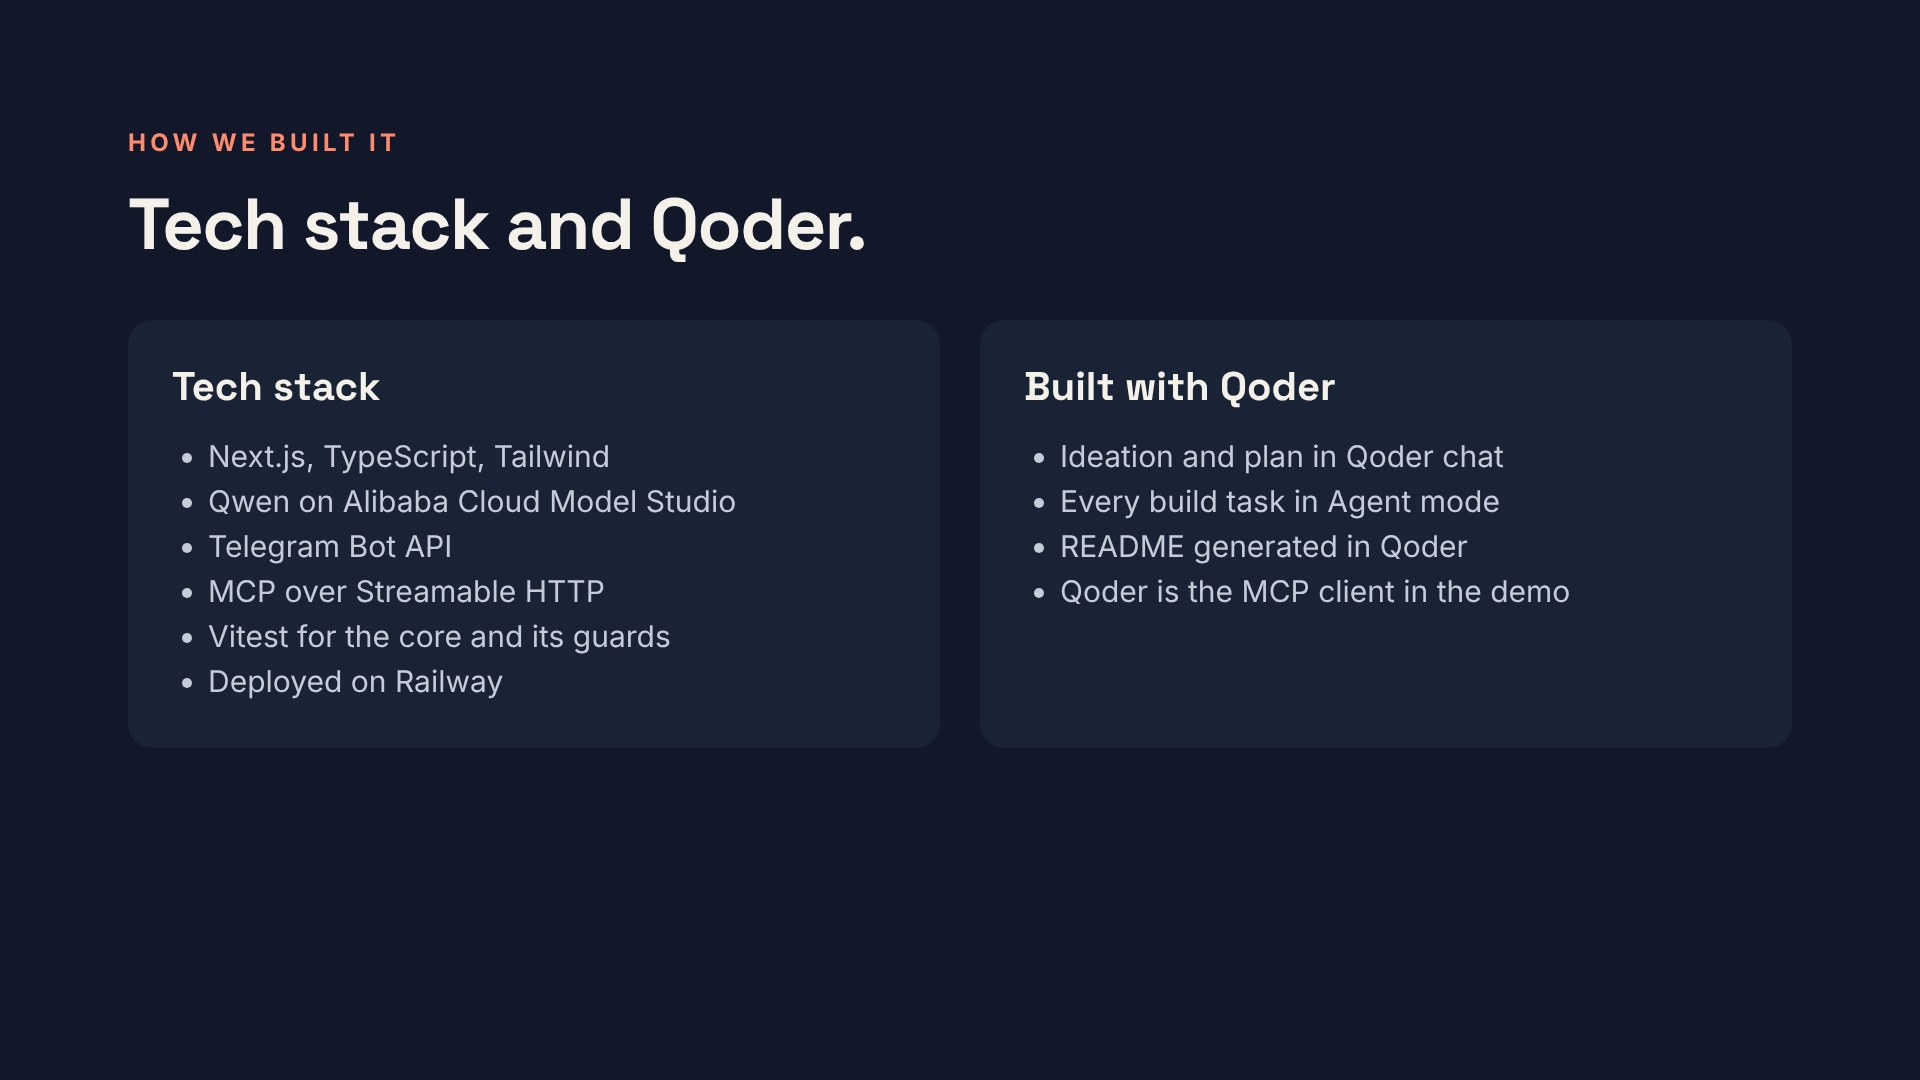
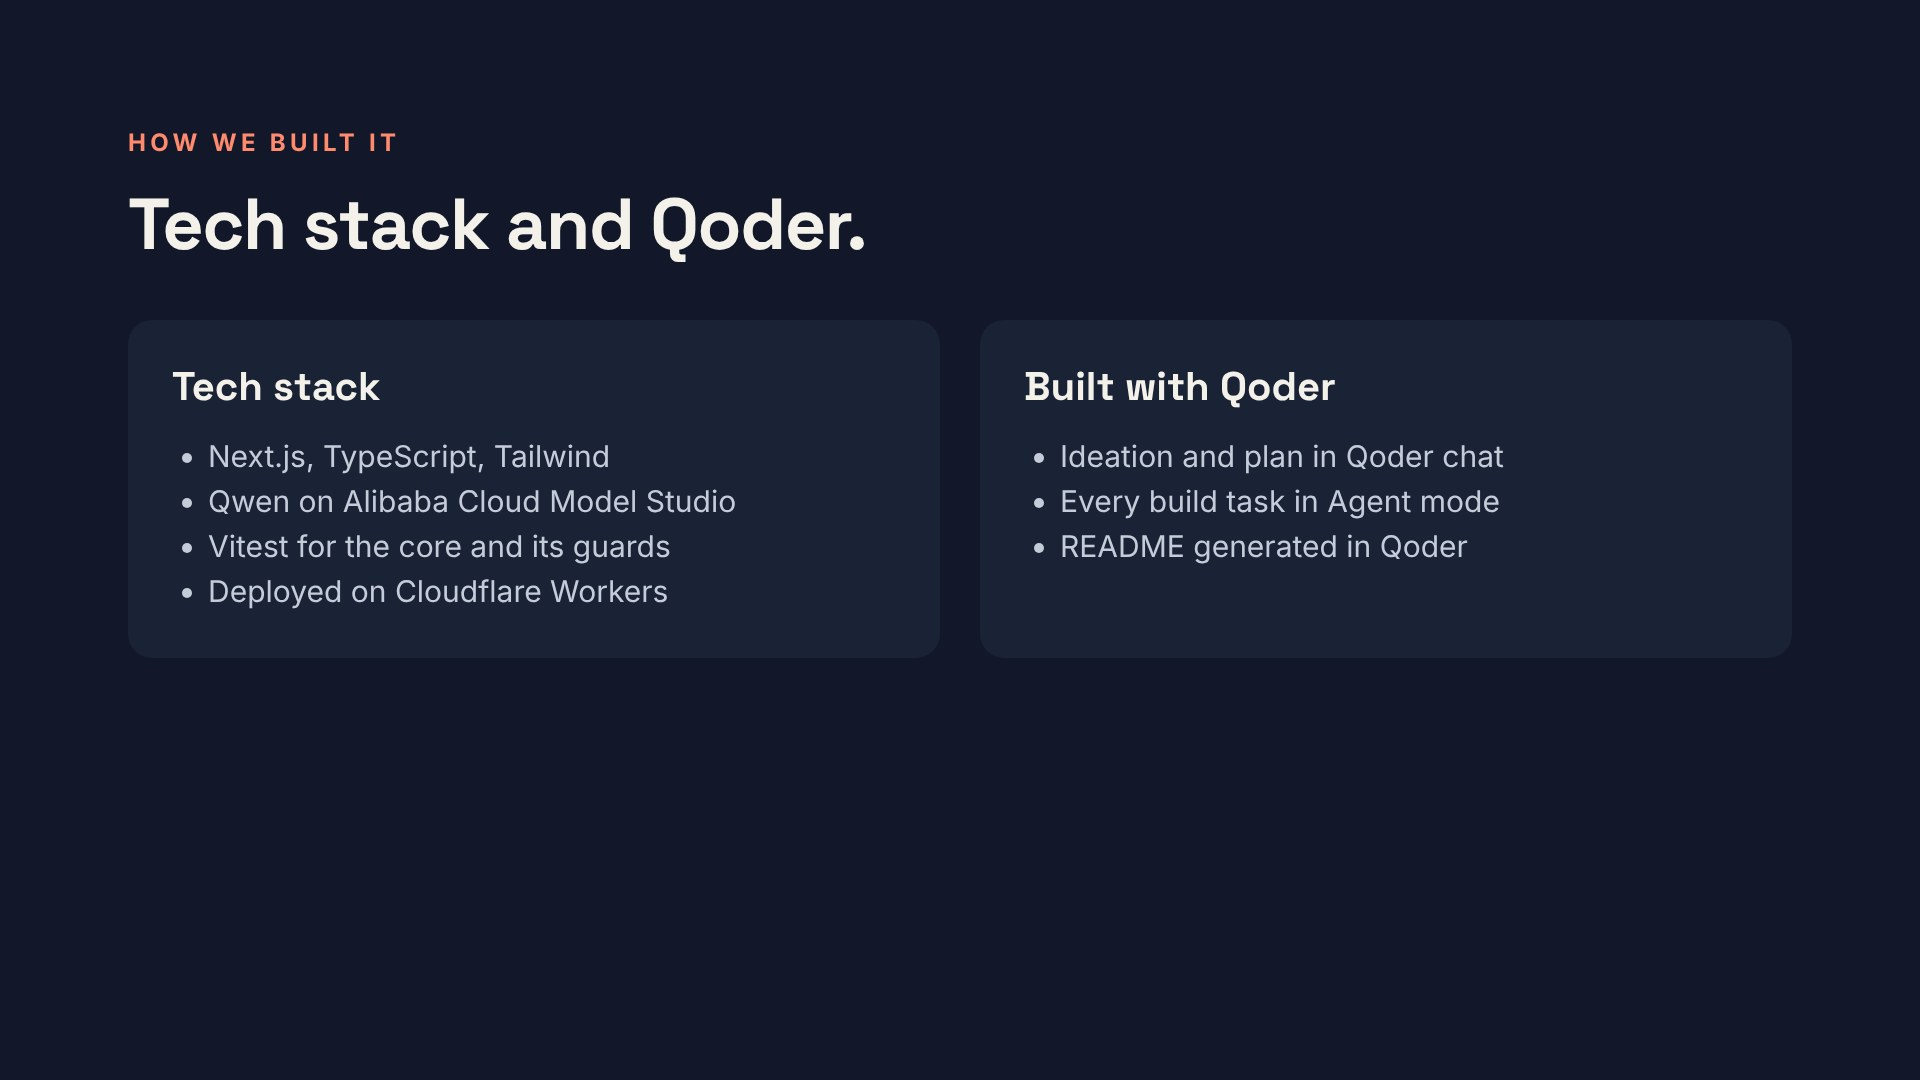
Update public deck: photo-first input, current app rules, video inside slide 6
Slides 5, 7 and 8 match the deployed app (no Telegram or MCP). Slide 6
now plays the demo video in place and the deck moves on when it ends.

Claude-Session: https://claude.ai/code/session_01MpEnXQ2fZwpy56wpchYYqW

Changed region(s): [[0.0938, 0.4889, 0.3438, 0.6417], [0.5625, 0.5194, 0.8125, 0.5806]]

diff --git a/deck/index.html b/deck/index.html
@@ -11,8 +11,8 @@
 <style>
 html,body{margin:0;height:100%;background:#07090c;color:#f4f1ea;font-family:system-ui,-apple-system,"Segoe UI",Roboto,sans-serif;overflow:hidden}
 #stage{position:fixed;inset:0;display:flex;align-items:center;justify-content:center}
-#stage img{position:absolute;max-width:100%;max-height:100%;width:auto;height:auto;aspect-ratio:16/9;opacity:0;transition:opacity .6s ease}
-#stage img.on{opacity:1}
+#stage img,#stage video{position:absolute;max-width:100%;max-height:100%;width:auto;height:auto;aspect-ratio:16/9;opacity:0;transition:opacity .6s ease}
+#stage img.on,#stage video.on{opacity:1}
 #bar{position:fixed;left:0;bottom:0;height:4px;background:#ff5a36;width:0}
 nav{position:fixed;left:0;right:0;bottom:10px;display:flex;flex-wrap:wrap;justify-content:center;align-items:center;gap:8px}
 button,a.btn{min-width:48px;min-height:48px;padding:0 16px;border:0;border-radius:24px;background:rgba(20,24,34,.82);color:#f4f1ea;font:600 15px/1 inherit;cursor:pointer;text-decoration:none;display:inline-flex;align-items:center;justify-content:center}
@@ -26,9 +26,9 @@ button:focus-visible,a.btn:focus-visible{outline:3px solid #ff5a36;outline-offse
 <img src="s2.jpg" alt="Slide 2: The problem. One drain, five complaints, five wordings.">
 <img src="s3.jpg" alt="Slide 3: The solution. Reportlah turns them into one report: place, count, dates, an English message, what is missing.">
 <img src="s4.jpg" alt="Slide 4: How it works. Four steps: read, group, draft, check. Code counts, the agent writes.">
-<img src="s5.jpg" alt="Slide 5: Three ways in. Web, Telegram and MCP on one core.">
-<img src="s6.jpg" alt="Slide 6: Live demo. Five complaints become six, from a phone.">
-<img src="s7.jpg" alt="Slide 7: Why you can trust it. The rules are in code, not in the prompt.">
+<img src="s5.jpg" alt="Slide 5: For the community. Start with a photo, AI drafts the description, location and severity, then send.">
+<video src="../demo.mp4" poster="s6.jpg" muted playsinline preload="metadata" aria-label="Slide 6: Reportlah! demo video"></video>
+<img src="s7.jpg" alt="Slide 7: Why you can trust it. The app owns the numbers, the assistant writes.">
 <img src="s8.jpg" alt="Slide 8: Tech stack and Qoder.">
 <img src="s9.jpg" alt="Slide 9: Many complaints. One report. Try it at reportlah.m-naim.workers.dev.">
 </div>
@@ -42,16 +42,16 @@ button:focus-visible,a.btn:focus-visible{outline:3px solid #ff5a36;outline-offse
 <a class="btn" href="https://reportlah.m-naim.workers.dev/">Live app</a>
 </nav>
 <script>
-const imgs = [...document.querySelectorAll('#stage img')], bar = document.getElementById('bar'), n = document.getElementById('n'), playBtn = document.getElementById('play');
+const imgs = [...document.querySelectorAll('#stage img, #stage video')], bar = document.getElementById('bar'), n = document.getElementById('n'), playBtn = document.getElementById('play');
 const HOLD = 7000; let i = 0, playing = true, t0 = performance.now();
 const m = location.hash.match(/slide-(\d+)/); if (m) i = Math.min(imgs.length, Math.max(1, +m[1])) - 1;
-function show(k) { i = (k + imgs.length) % imgs.length; imgs.forEach((im, j) => im.classList.toggle('on', j === i)); n.textContent = (i + 1) + ' / ' + imgs.length; t0 = performance.now(); history.replaceState(null, '', '#slide-' + (i + 1)); }
+function show(k) { i = (k + imgs.length) % imgs.length; imgs.forEach((im, j) => { im.classList.toggle('on', j === i); if (im.tagName === 'VIDEO') { if (j === i) { im.currentTime = 0; im.play().catch(() => {}); } else im.pause(); } }); n.textContent = (i + 1) + ' / ' + imgs.length; t0 = performance.now(); history.replaceState(null, '', '#slide-' + (i + 1)); }
 function setPlaying(p) { playing = p; playBtn.textContent = p ? 'Pause' : 'Play'; playBtn.setAttribute('aria-label', p ? 'Pause autoplay' : 'Start autoplay'); t0 = performance.now(); if (!p) bar.style.width = '0'; }
-function tick(now) { if (playing) { const k = (now - t0) / HOLD; bar.style.width = Math.min(100, k * 100) + '%'; if (k >= 1) show(i + 1); } requestAnimationFrame(tick); }
+function tick(now) { if (playing) { const el = imgs[i]; const k = el.tagName === 'VIDEO' ? (el.ended ? 1 : (el.duration ? el.currentTime / el.duration : 0) * 0.999) : (now - t0) / HOLD; bar.style.width = Math.min(100, k * 100) + '%'; if (k >= 1) show(i + 1); } requestAnimationFrame(tick); }
 document.getElementById('next').onclick = () => show(i + 1);
 document.getElementById('prev').onclick = () => show(i - 1);
 playBtn.onclick = () => setPlaying(!playing);
-document.getElementById('stage').onclick = e => show(i + (e.clientX < innerWidth / 3 ? -1 : 1));
+document.getElementById('stage').onclick = e => { const el = imgs[i]; if (el.tagName === 'VIDEO' && el.muted) { el.muted = false; return; } show(i + (e.clientX < innerWidth / 3 ? -1 : 1)); };
 addEventListener('keydown', e => { if (e.key === 'ArrowRight' || e.key === 'PageDown') show(i + 1); else if (e.key === 'ArrowLeft' || e.key === 'PageUp') show(i - 1); else if (e.key === ' ') { e.preventDefault(); setPlaying(!playing); } });
 show(i); requestAnimationFrame(tick);
 </script>
